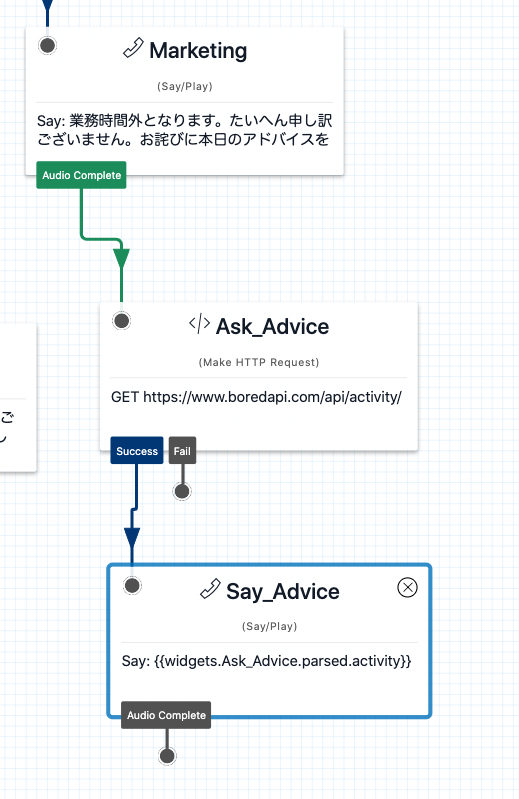
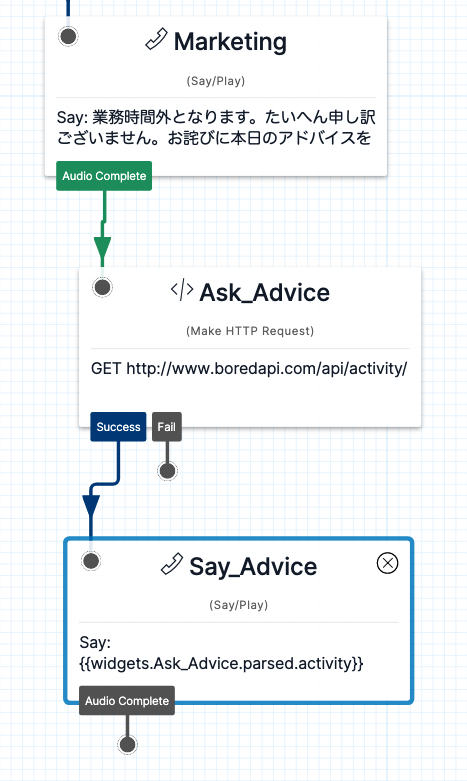
update content & image

diff --git a/docs/02-Split-Flow/01-Gather-Split-Flow.md b/docs/02-Split-Flow/01-Gather-Split-Flow.md
@@ -16,9 +16,9 @@
 |:----|:----|
 |WIDGET NAME| Greeting_Gather |
 |TEXT TO SAY| お電話ありがとうございます。営業部門にお問い合わせの場合は 1 を、マーケティング部門にお問い合わせの場合は2を押してください。当社のテーマミュージックをお聴きになる場合は何かおはなしください。|
-|STOP GATHERING AFTER （DIGITSのほう）|1|
 |LANGUAGE|Japanese|
 |MESSAGE VOICE| Alice、\[Polly\] Mizuki、\[Polly\] Takumiのいずれか|
+|STOP GATHERING AFTER （DIGITS）|1|
 |SPEECH RECOGNITION LANGUAGE|Japanese (Japan)|
   
 

diff --git a/README.md b/README.md
@@ -7,7 +7,7 @@
 ## 必要・推奨環境
 このハンズオンを実施する場合は、次の環境が必要となります。
 
-- Twilioアカウントを作成していること（トライアル版で問題なし）  
+- Twilioアカウントを作成していること（ハンズオンの実施はトライアルアカウントで可能）  
 [アカウントの作成方法](https://www.twilio.com/blog/how-to-create-twilio-account-jp)
 
 

diff --git a/docs/03-Studio-Advanced-Features/03-Use-Http-Request.md b/docs/03-Studio-Advanced-Features/03-Use-Http-Request.md
@@ -20,7 +20,7 @@
 |:----|:----|
 |WIDGET NAME| Ask_Advice|
 |REQUEST METHOD| GET|
-|REQUEST URL|https://www.boredapi.com/api/activity/|
+|REQUEST URL|http://www.boredapi.com/api/activity/|
 
 スクリーンショットも参考にしてください。
 
